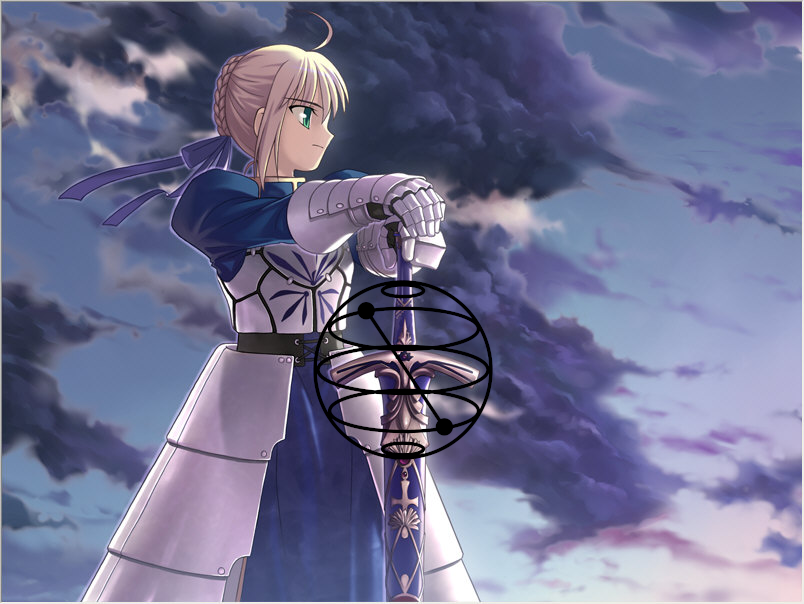
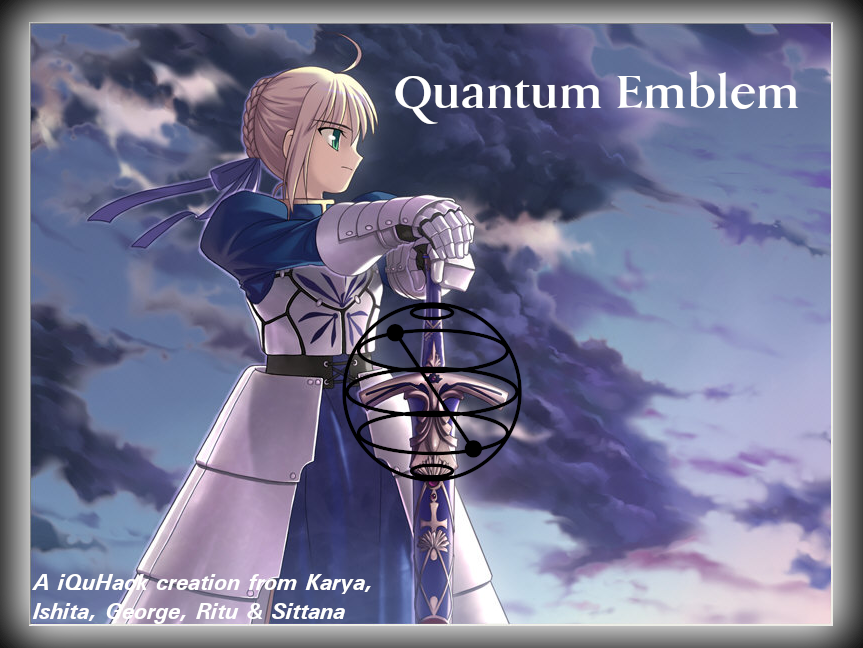
added jobro stage

diff --git a/rooms/main_menu.py b/rooms/main_menu.py
@@ -16,7 +16,7 @@ from rooms.map_menu import MapMenu
 class MainMenu(gui.LinearLayout):
     def __init__(self):
         super().__init__(allowed_events=[pl.MOUSEMOTION, pl.MOUSEBUTTONDOWN, pl.KEYDOWN],
-                         background=Background(color=c.BLACK, image=resources.load_image('saber.png'), size=BackgroundSize.COVER),
+                         background=Background(color=c.BLACK, image=resources.load_image('saber.png'), size=BackgroundSize.CONTAIN),
                          layout=Layout(width=LayoutParams.FILL_PARENT, height=LayoutParams.FILL_PARENT), spacing=50)
         self.click_to_start = gui.Label(_("Click to Start"), f.MAIN_MENU, padding=10,
                                         txt_color=c.ICE, layout=Layout(gravity=Gravity.BOTTOM), die_when_done=False)

diff --git a/unit.py b/unit.py
@@ -215,7 +215,7 @@ class Unit(object):
             new_size = utils.resize_keep_ratio(self.trueImage.get_size(), (200, 200))
             self.trueImage = pygame.transform.smoothscale(self.trueImage, new_size)
         except FileNotFoundError:
-            logging.warning("Couldn't load %s! Loading default image", resources.sprite_path(self.trueImage))
+            logging.warning("Couldn't load %s! Loading default image", self.name)
             self.trueImage = resources.load_sprite('no_image.png').convert_alpha()
         self.image = self.trueImage
 
